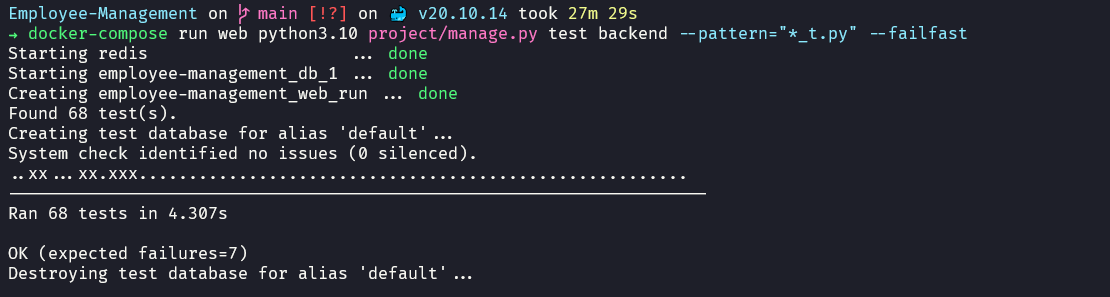
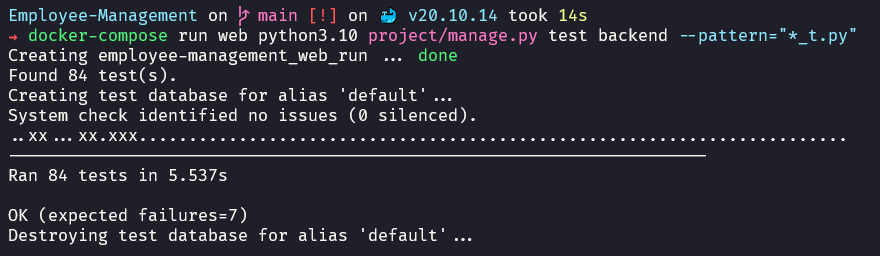
update tests

Changed region(s): [[0.0, 0.0, 0.9818, 0.75], [0.0, 0.8125, 0.5216, 0.9688], [0.4909, 0.375, 0.5216, 0.4062]]

diff --git a/project/backend/employees/app/tests/views/employee_detail_t.py b/project/backend/employees/app/tests/views/employee_detail_t.py
@@ -178,3 +178,11 @@ class EmployeeDetailViewTest(ViewBaseForTest):
         request = self.client.patch(self.path, data=data, **self.header)
         self.assertEqual(request.status_code, 400)
         self.assertEqual('Date has wrong format. Use one of these formats instead: DD-MM-YYYY, YYYY-MM-DD.', str(request.data['birth_date'][0]))
+
+    def test_error_required_fields(self):
+        serializer = EmployeeSerializer(data={})
+        self.assertFalse(serializer.is_valid())
+        error_list = list(map(lambda key: str(key[0]), list(serializer.errors.values())))
+        error_message = 'This field is required.'
+        required_list_error = [error_message, error_message, error_message, error_message]  # for name, email, salary, birth_date    
+        self.assertEqual(required_list_error, error_list)

diff --git a/project/backend/employees/app/tests/views/department_detail_t.py b/project/backend/employees/app/tests/views/department_detail_t.py
@@ -48,3 +48,7 @@ class DepartmentDetailViewTest(ViewBaseForTest):
     def test_delete_method(self):
         request = self.client.delete(f'/departments/{self.department_2.id}/', **self.header)
         self.assertEqual(request.status_code, 204) # 204 - NO CONTENT
+
+    def test_put_error_required_name_field(self):
+        request = self.client.put(self.path, data={}, **self.header)
+        self.assertEqual('This field is required.', str(request.data['name'][0]))
